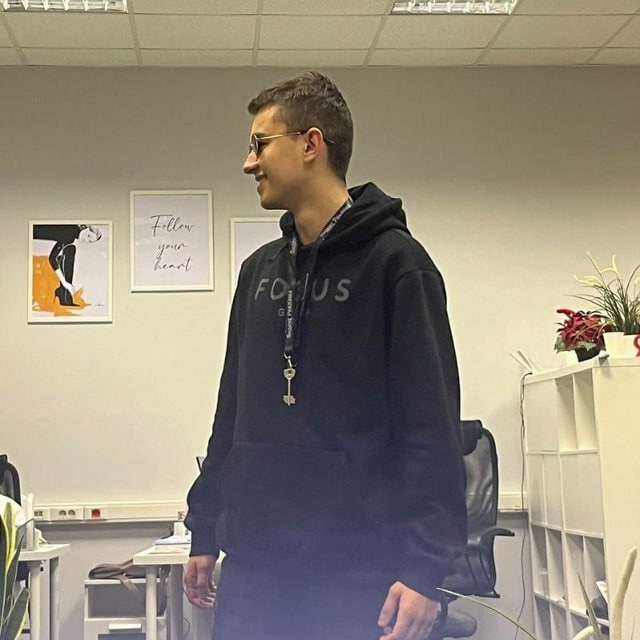
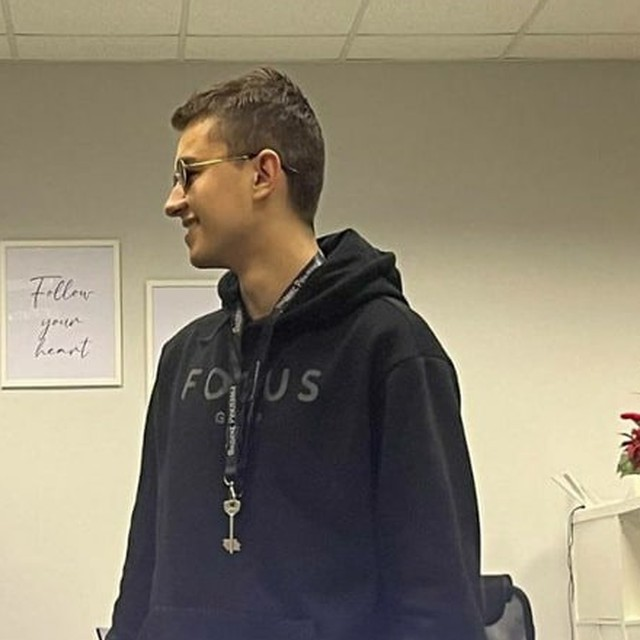
Rename position to Project Buyer, crop photo tighter
- Replace 'Performance Manager · Mobile Buyer' with 'Project Buyer' in
  title, meta/og tags, top bar, intro, photo caption, info strip, footer
- Crop photo to a tighter head-and-torso square frame with breathing
  room in the gaze direction (was a full-height office shot)
- Verified desktop and mobile: all reveal sections fire on scroll,
  counters run, no horizontal overflow, no JS errors

Claude-Session: https://claude.ai/code/session_01DksiRJH9pgtPKyLzwNPNKg

diff --git a/index.html b/index.html
@@ -3,11 +3,11 @@
 <head>
   <meta charset="UTF-8">
   <meta name="viewport" content="width=device-width, initial-scale=1.0">
-  <title>Ибрагим Курайши — Performance Manager · Mobile Buyer</title>
-  <meta name="description" content="Performance Manager и байер мобильной рекламы. Крупные клиенты (Sportmaster, Yango, Циан), бюджет 80 млн ₽/мес, 20+ источников руками.">
+  <title>Ибрагим Курайши — Project Buyer</title>
+  <meta name="description" content="Project Buyer в performance-маркетинге. Крупные клиенты (Sportmaster, Yango, Циан), бюджет 80 млн ₽/мес, 20+ источников руками.">
 
   <meta property="og:type" content="website">
-  <meta property="og:title" content="Ибрагим Курайши — Performance Manager · Mobile Buyer">
+  <meta property="og:title" content="Ибрагим Курайши — Project Buyer">
   <meta property="og:description" content="Крупные клиенты, бюджет 80 млн ₽/мес, 20+ рекламных источников руками. Резюме, опыт, контакты.">
   <meta property="og:image" content="assets/photo.jpg">
 
@@ -24,7 +24,7 @@
     <!-- 1. ВЕРХНЯЯ МЕТА-ПОЛОСА -->
     <header class="meta-bar">
       <span class="label">[ИБРАГИМ КУРАЙШИ]</span>
-      <span class="label meta-bar__center">[PERFORMANCE MANAGER · MOBILE BUYER]</span>
+      <span class="label meta-bar__center">[PROJECT BUYER]</span>
       <span class="label">[МОСКВА, 2026]</span>
     </header>
 
@@ -48,7 +48,7 @@
         <span class="hero__row hero__row--outline"><span class="word"><span class="ltr" style="--i:14">P</span><span class="ltr" style="--i:15">E</span><span class="ltr" style="--i:16">R</span><span class="ltr" style="--i:17">F</span><span class="ltr" style="--i:18">O</span><span class="ltr" style="--i:19">R</span><span class="ltr" style="--i:20">M</span><span class="ltr" style="--i:21">A</span><span class="ltr" style="--i:22">N</span><span class="ltr" style="--i:23">C</span><span class="ltr" style="--i:24">E</span></span> <span class="word"><span class="ltr" style="--i:25">M</span><span class="ltr" style="--i:26">A</span><span class="ltr" style="--i:27">R</span><span class="ltr" style="--i:28">K</span><span class="ltr" style="--i:29">E</span><span class="ltr" style="--i:30">T</span><span class="ltr" style="--i:31">I</span><span class="ltr" style="--i:32">N</span><span class="ltr" style="--i:33">G</span></span></span>
       </h1>
 
-      <p class="hero__intro copy">Performance Manager и байер мобильной рекламы. Веду крупных клиентов (Sportmaster, Yango, Циан) и бюджет 80&nbsp;млн&nbsp;₽/мес: стратегия, медиасплит, аналитика, контроль качества. Сам веду 20+ источников руками. До mobile — опыт в web: контекст, VK, сквозная аналитика.<span class="caret">_</span></p>
+      <p class="hero__intro copy">Project Buyer — веду крупных клиентов (Sportmaster, Yango, Циан) и бюджет 80&nbsp;млн&nbsp;₽/мес: стратегия, медиасплит, аналитика, контроль качества. Сам веду 20+ источников руками. До mobile — опыт в web: контекст, VK, сквозная аналитика.<span class="caret">_</span></p>
 
       <a class="btn-pdf" id="btn-pdf" href="assets/resume.pdf" download="Резюме_Ибрагим_Курайши_Project_Manager.pdf">↓ СКАЧАТЬ PDF</a>
     </section>
@@ -110,7 +110,7 @@
         </div>
         <div class="photo__caption">
           <div class="photo__name">Ибрагим Курайши</div>
-          <div class="label">Performance Manager · Mobile Buyer · Москва</div>
+          <div class="label">Project Buyer · Москва</div>
         </div>
       </div>
 
@@ -258,7 +258,7 @@
     <section class="info reveal">
       <div class="info__cell">
         <div class="label info__label">Ищу позицию</div>
-        <div class="info__value">Performance Manager · Mobile Buyer</div>
+        <div class="info__value">Project Buyer</div>
       </div>
       <div class="info__cell">
         <div class="label info__label">Занятость</div>
@@ -296,7 +296,7 @@
           <span class="ccard__value">t.me/closedhypothesis</span>
         </a>
       </div>
-      <div class="contacts__footer label">© 2026 Ибрагим Курайши · Project Manager · Performance Marketing · Москва</div>
+      <div class="contacts__footer label">© 2026 Ибрагим Курайши · Project Buyer · Москва</div>
     </section>
 
   </div>

diff --git a/README.md b/README.md
@@ -1,6 +1,6 @@
 # Ибрагим Курайши — сайт-резюме
 
-Одностраничный сайт-резюме: Performance Manager · Mobile Buyer.
+Одностраничный сайт-резюме: Project Buyer (performance-маркетинг).
 Собран по дизайн-макету (handoff): тёплый молочный фон `#f2f0ea`, чернила `#141414`,
 рамки 1.5px, шрифты Oswald / JetBrains Mono / Manrope.
 Чистый HTML/CSS/JS без сборки — открывается напрямую, хостится на GitHub Pages или Vercel.
